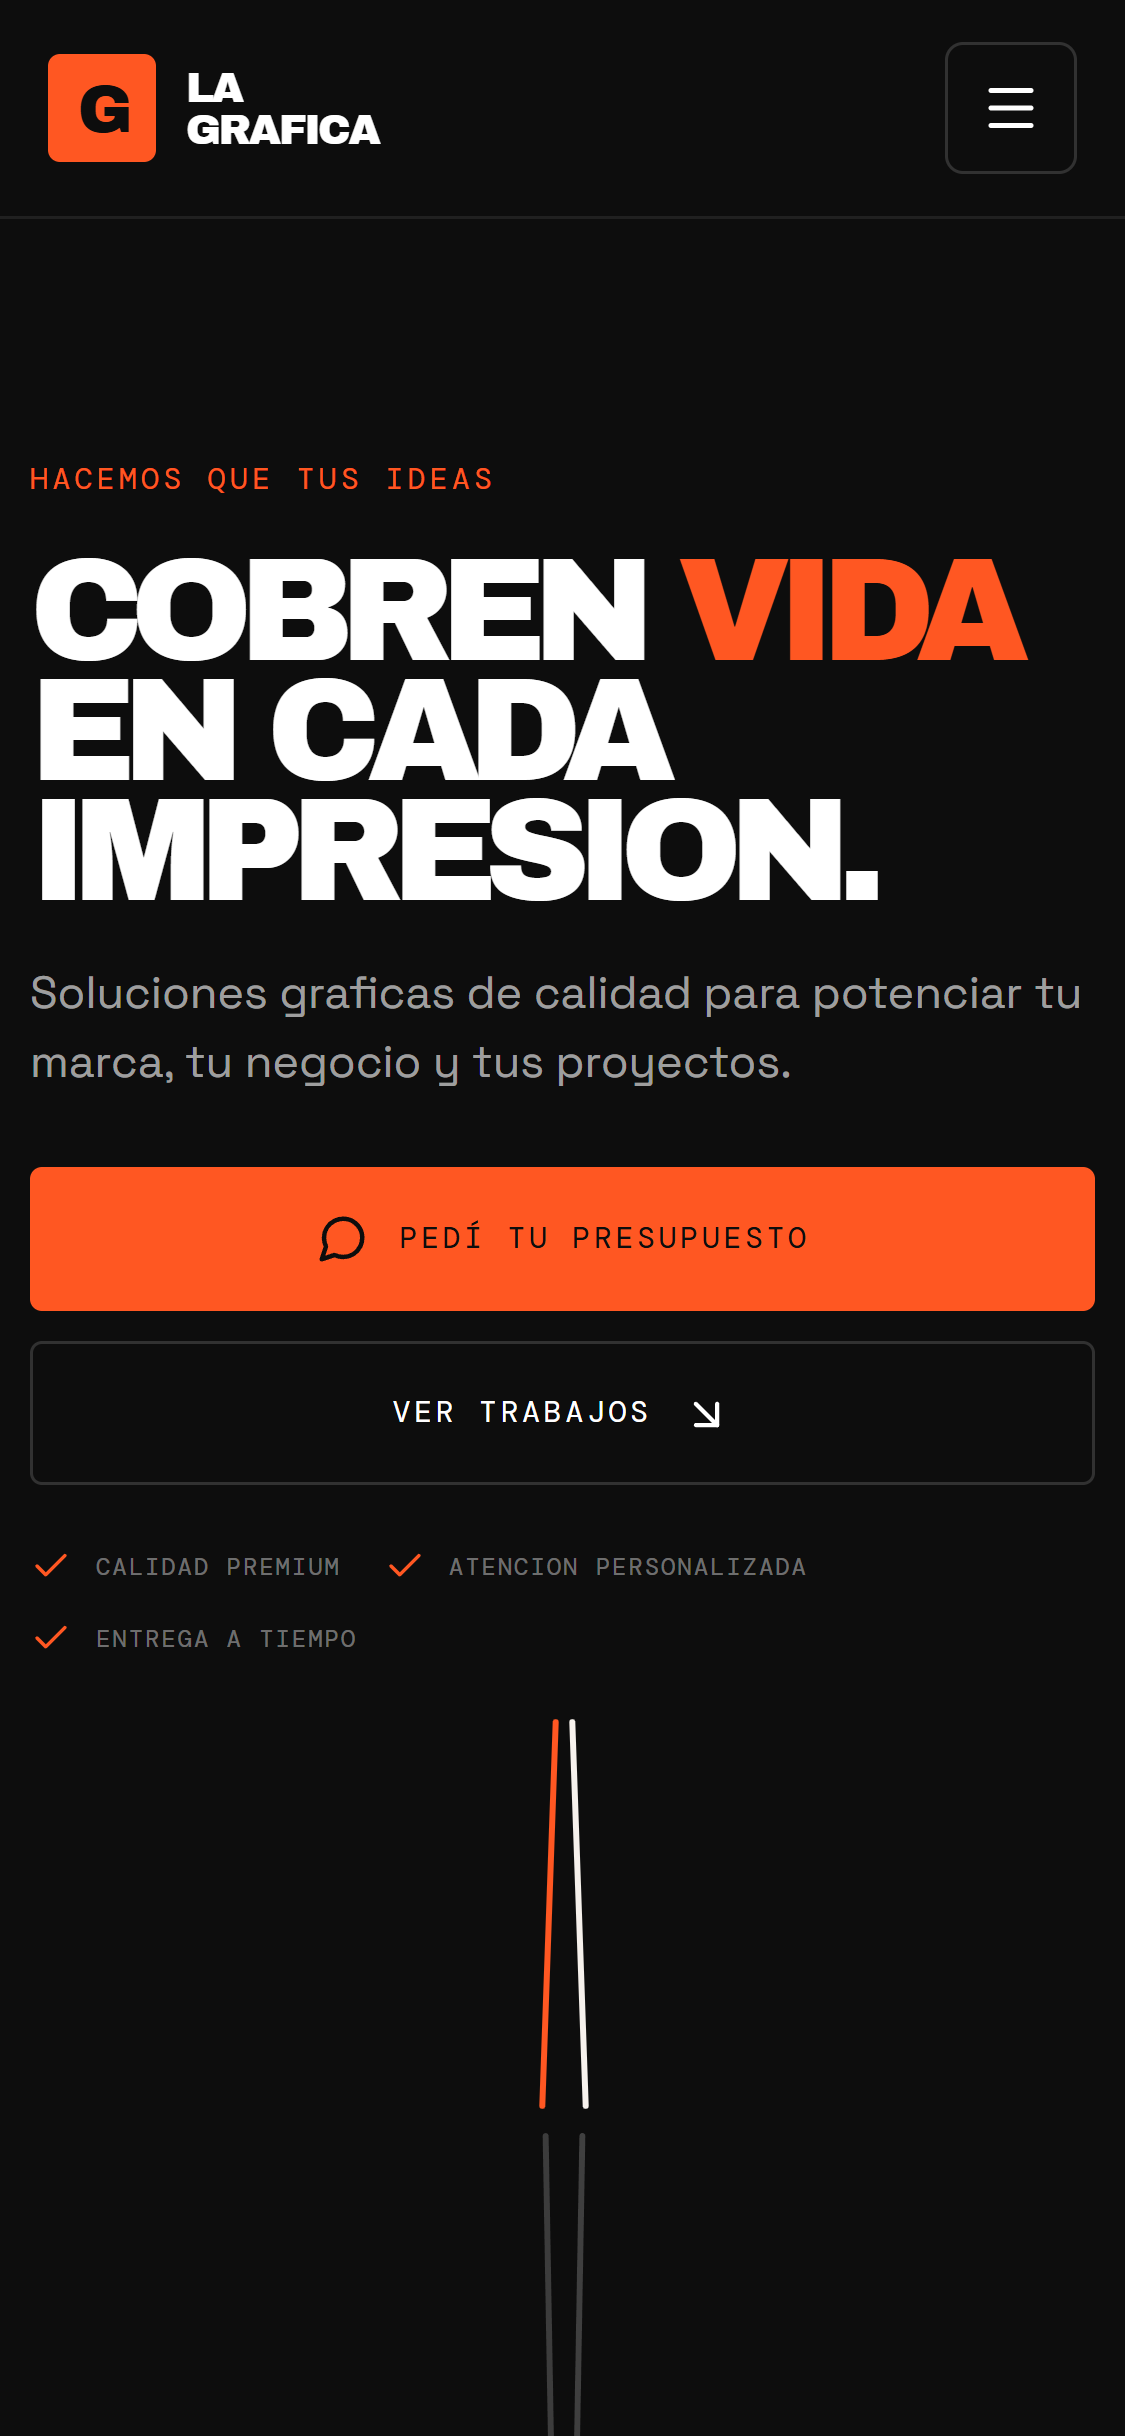
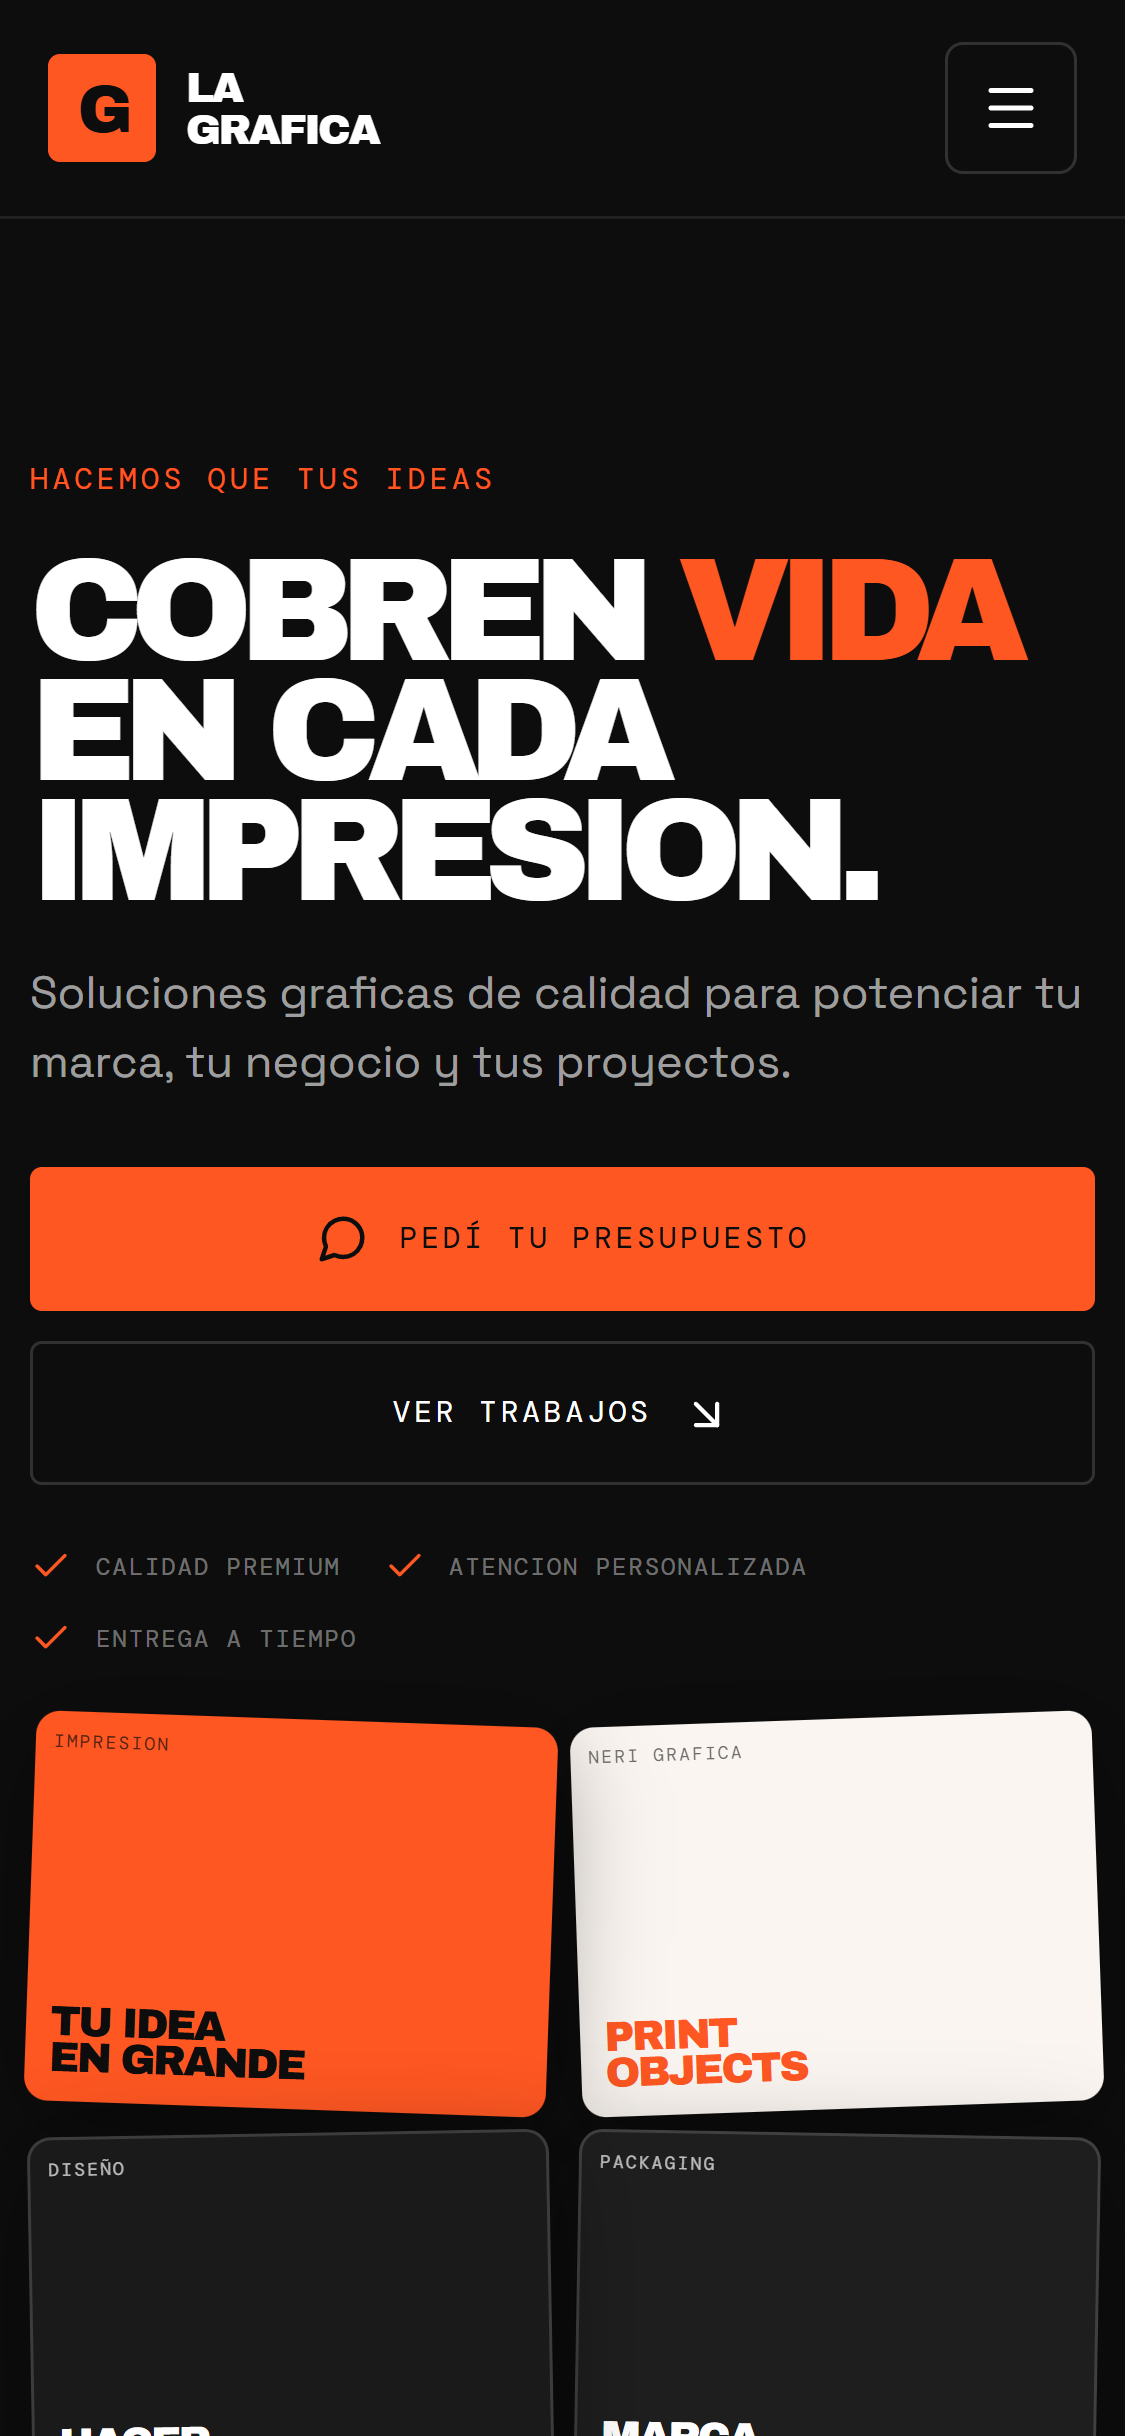
fix: quote section overflow - min-width:0, overflow:hidden on mobile

Changed region(s): [[0.0, 0.6864, 0.9956, 0.9048], [0.5289, 0.9984, 0.6844, 1.0], [0.0311, 0.9984, 0.1867, 1.0]]

diff --git a/artifacts/la-grafica/src/index.css b/artifacts/la-grafica/src/index.css
@@ -1251,10 +1251,12 @@
   .product-card__body p { font-size: 11px; }
 
   /* Quote */
-  .quote-layout { grid-template-columns: 1fr; gap: 32px; }
+  .quote-layout { grid-template-columns: 1fr; gap: 32px; overflow: hidden; }
+  .quote-copy { min-width: 0; overflow: hidden; }
   .quote-copy p:not(.mono-label) { max-width: 100%; }
   .form-row { grid-template-columns: 1fr; gap: 14px; }
-  .quote-form-card { padding: 20px 16px; overflow: hidden; max-width: 100%; }
+  .quote-form-card { padding: 20px 16px; overflow: hidden; max-width: 100%; min-width: 0; }
+  .quote-whatsapp { min-width: 0; overflow: hidden; }
 
   /* About */
   .about-layout { grid-template-columns: 1fr; gap: 40px; }
